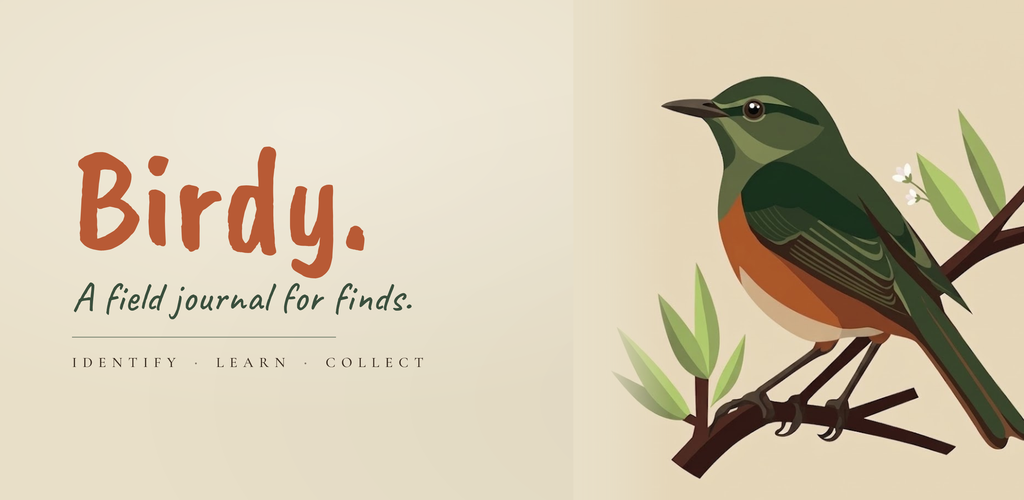
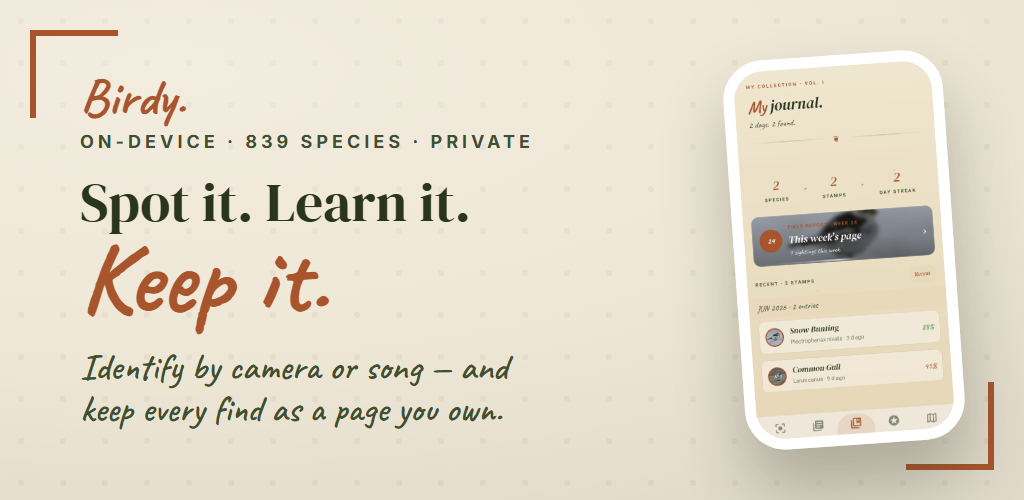
feat(store): feature-graphic ommatchad till v1.2 kort-stil
Landscape 1024x500 på samma designsystem som de 8 skärmdumps-korten
(papper + prick-textur + koppar-parenteser + DM Serif-rubrik med Caveat-
koppar-accent + inramad dagbokstelefon). Renderas via Playwright/Google
Fonts (feature-graphic.html + render-feature.mjs), samma pipeline som
render.mjs. Ersätter den v1.0-era brand-grafiken.

diff --git a/website/tools/store-assets/feature-graphic.html b/website/tools/store-assets/feature-graphic.html
@@ -1,0 +1,57 @@
+<!DOCTYPE html>
+<html>
+<head>
+<meta charset="utf-8">
+<link rel="preconnect" href="https://fonts.googleapis.com">
+<link rel="preconnect" href="https://fonts.gstatic.com" crossorigin>
+<link href="https://fonts.googleapis.com/css2?family=DM+Serif+Display:ital@0;1&family=Caveat:wght@500;600;700&family=Inter:wght@400;500;600;700&display=swap" rel="stylesheet">
+<style>
+  /* Play Store feature graphic, 1024x500. Same design system as the 8 screenshot
+     cards (template.html): paper + dot texture + copper corner brackets +
+     DM Serif headline with a Caveat copper accent + framed phone. */
+  :root{ --paper:#EFE7D6; --ink:#2A3520; --moss:#3F4F30; --copper:#A8552D; }
+  *{ margin:0; box-sizing:border-box; }
+  html,body{ background:transparent; }
+  #fg{ position:relative; width:1024px; height:500px; background:var(--paper); overflow:hidden;
+    background-image:radial-gradient(rgba(63,79,48,.05) 3px, transparent 3px); background-size:42px 42px;
+    display:flex; align-items:center; font-synthesis:none; }
+  /* copper corner brackets, mirror the card template */
+  #fg::before,#fg::after{ content:''; position:absolute; width:82px; height:82px; border:6px solid var(--copper); z-index:4; }
+  #fg::before{ top:30px; left:30px; border-right:0; border-bottom:0; }
+  #fg::after{ bottom:30px; right:30px; border-left:0; border-top:0; }
+  .warm{ position:absolute; inset:0; z-index:2; pointer-events:none;
+    background:radial-gradient(125% 100% at 17% 14%, rgba(255,255,255,.24), rgba(255,255,255,0) 56%, rgba(0,0,0,.06)); }
+  .left{ position:relative; z-index:3; width:600px; height:100%; padding:0 0 0 80px;
+    display:flex; flex-direction:column; justify-content:center; }
+  .wordmark{ font-family:'Caveat'; font-weight:700; font-size:52px; color:var(--copper); line-height:1; }
+  .eyebrow{ font-family:Inter; font-weight:700; font-size:18px; letter-spacing:4px; color:var(--moss);
+    text-transform:uppercase; margin-top:8px; white-space:nowrap; }
+  .hl{ font-family:'DM Serif Display'; font-size:55px; line-height:1.02; color:var(--ink); margin:22px 0 0; }
+  .hl em{ display:block; font-family:'Caveat'; font-style:normal; font-weight:700; color:var(--copper);
+    font-size:100px; line-height:0.84; margin-top:6px; }
+  .body{ font-family:'Caveat'; font-weight:600; font-size:37px; color:var(--moss); line-height:1.12; margin-top:26px; max-width:460px; }
+  /* framed phone on the right, gently tilted */
+  .right{ position:absolute; right:70px; top:50%; transform:translateY(-50%) rotate(-4deg); z-index:5; }
+  #screen{ width:220px; height:390px; background-size:cover; background-position:center top;
+    border:11px solid #fff; border-radius:40px; box-shadow:0 38px 66px rgba(42,53,37,.30); }
+</style>
+</head>
+<body>
+  <div id="fg">
+    <div class="warm"></div>
+    <div class="left">
+      <div class="wordmark">Birdy.</div>
+      <div class="eyebrow">On-device &middot; 839 species &middot; Private</div>
+      <div class="hl">Spot it. Learn it.<em>Keep it.</em></div>
+      <div class="body">Identify by camera or song &mdash; and keep every find as a page you own.</div>
+    </div>
+    <div class="right"><div id="screen"></div></div>
+  </div>
+<script>
+  window.setScreen = (url) => {
+    document.getElementById('screen').style.backgroundImage = `url('${url}')`;
+    return document.fonts.ready;
+  };
+</script>
+</body>
+</html>
